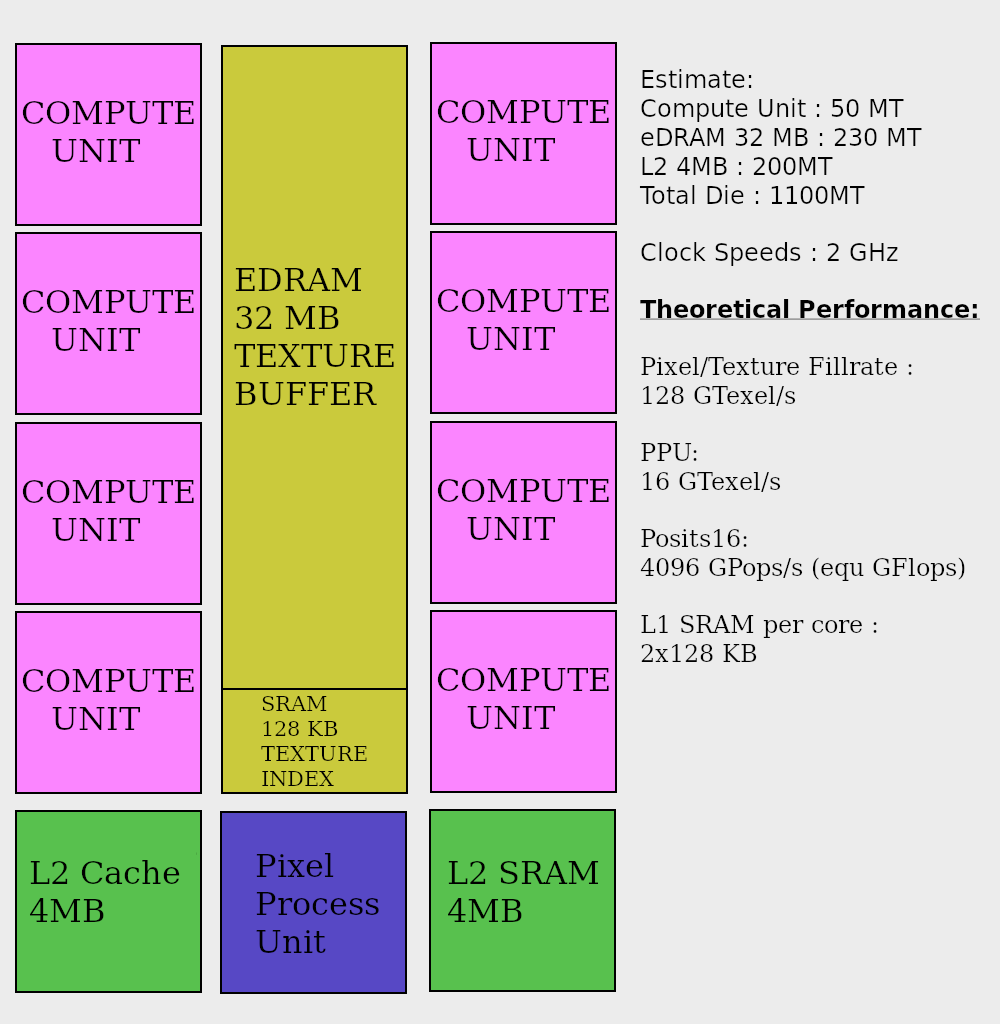
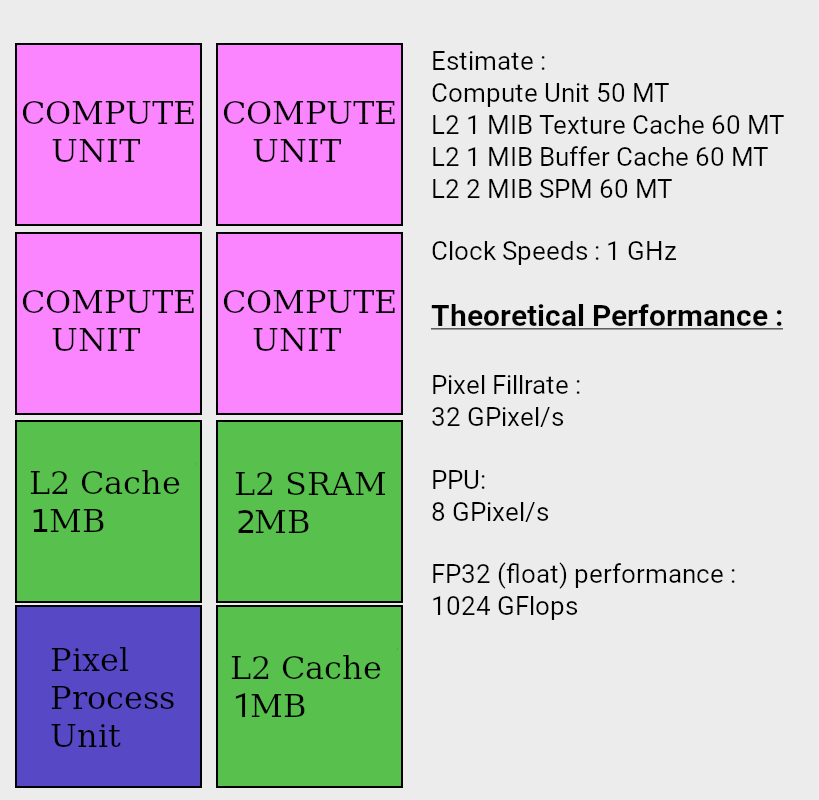
GPU

diff --git a/GPU.md b/GPU.md
@@ -1,26 +1,24 @@
-# Altair GPU
+# Aldebaran GPU
 
 Altair for GPU shares many points in common with the CPU version, it is a simplified version oriented parallel computing and rendering.
 
-So Altair G1 is a VLIW in order processor.  
-It has the same L1 cache count.  
-It has 32-64MB 1T-SRAM memory for textures.  
-A 128 KB SRAM for texture indexes (to manage palettes or VQ).  
+So Aldebaran G1 is a VLIW in order processor.  
+128 KiB L1 data Scratchpad memory.  
+128 KiB L1 instruction Scratchpad memory.  
+32 KiB  L1 data cache (Direct mapped or Set-associative 2/4 ways).  
 
-L2 cache memory is intended for textures that are too large  
-For example if we use two non-compressive textures of 4096x4096, it does not enter the texture buffer, and it will be managed by the cache (longer and therefore with a lot of missing cache).  
-To avoid using the cache for managing images (or 2D rendering) with a large texture, there will be a “Sprite” type geometry management.  
+1 MiB L2 Texture cache (Set-associative 2/4 ways).  
+2 MiB L2 cache Scratchpad memory.  
+1 MiB L2 Buffer cache (Set-associative 2/4 ways).  
 
 The calculation unit can only execute 2 instructions / cycle.  
-It has an ALU (no division), CMP, BRU, LSU and AGU.  
 And 32 VFPU (Vector Float Point Unit), 32 FDIV (Float Division), 32 EFU (Elementary Function Unit).  
-The LSU will have specific instructions to load / store 32 vectors at a time.  
-it has access to EDRAM / L2 SRAM / L2 Cache which will take several cycles, read only.  
+AND 32 ALU (32 bits , no division), 32 LSU.
 
 The EFU will have all the necessary instructions to speed up calculations and 3D rendering.  
 (sin, cos, arctan, dot, rasterization, Min / Max, Clip, Culling , Sorting etc etc).  
 
-L2 SRAM (4 MB) stores the vertex / textcoord / normal / index / color / other + code of the shaders.  
+L2 SPM (2 MiB) stores the vertex / textcoord / normal / index / color / other + code of the shaders.  
 If this is insufficient, it is stored on the L2 cache.  
 
 The Pixel Process Unit is used to manage the Frame buffer / Zbuffer and Blending.  
@@ -34,10 +32,13 @@ For the textures, here is what will have to manage:
 - VQ Compressed
 - Palette 8 bpp and 4 bpp
 
+## Die GPU
+<img src="dieGPU.png?raw=true" alt="Compute Unit">
+
 ## Pipeline GPU
-<img src="GPU.png?raw=true" alt="Pipeline" width="584" height="650">
+<img src="GPU.png?raw=true" alt="Pipeline">
 
 ## Pipeline Compute Unit
-<img src="PipelineGPU.png?raw=true" alt="Compute Unit" width="640" height="840">
+<img src="PipelineGPU.png?raw=true" alt="Compute Unit">
 
 
